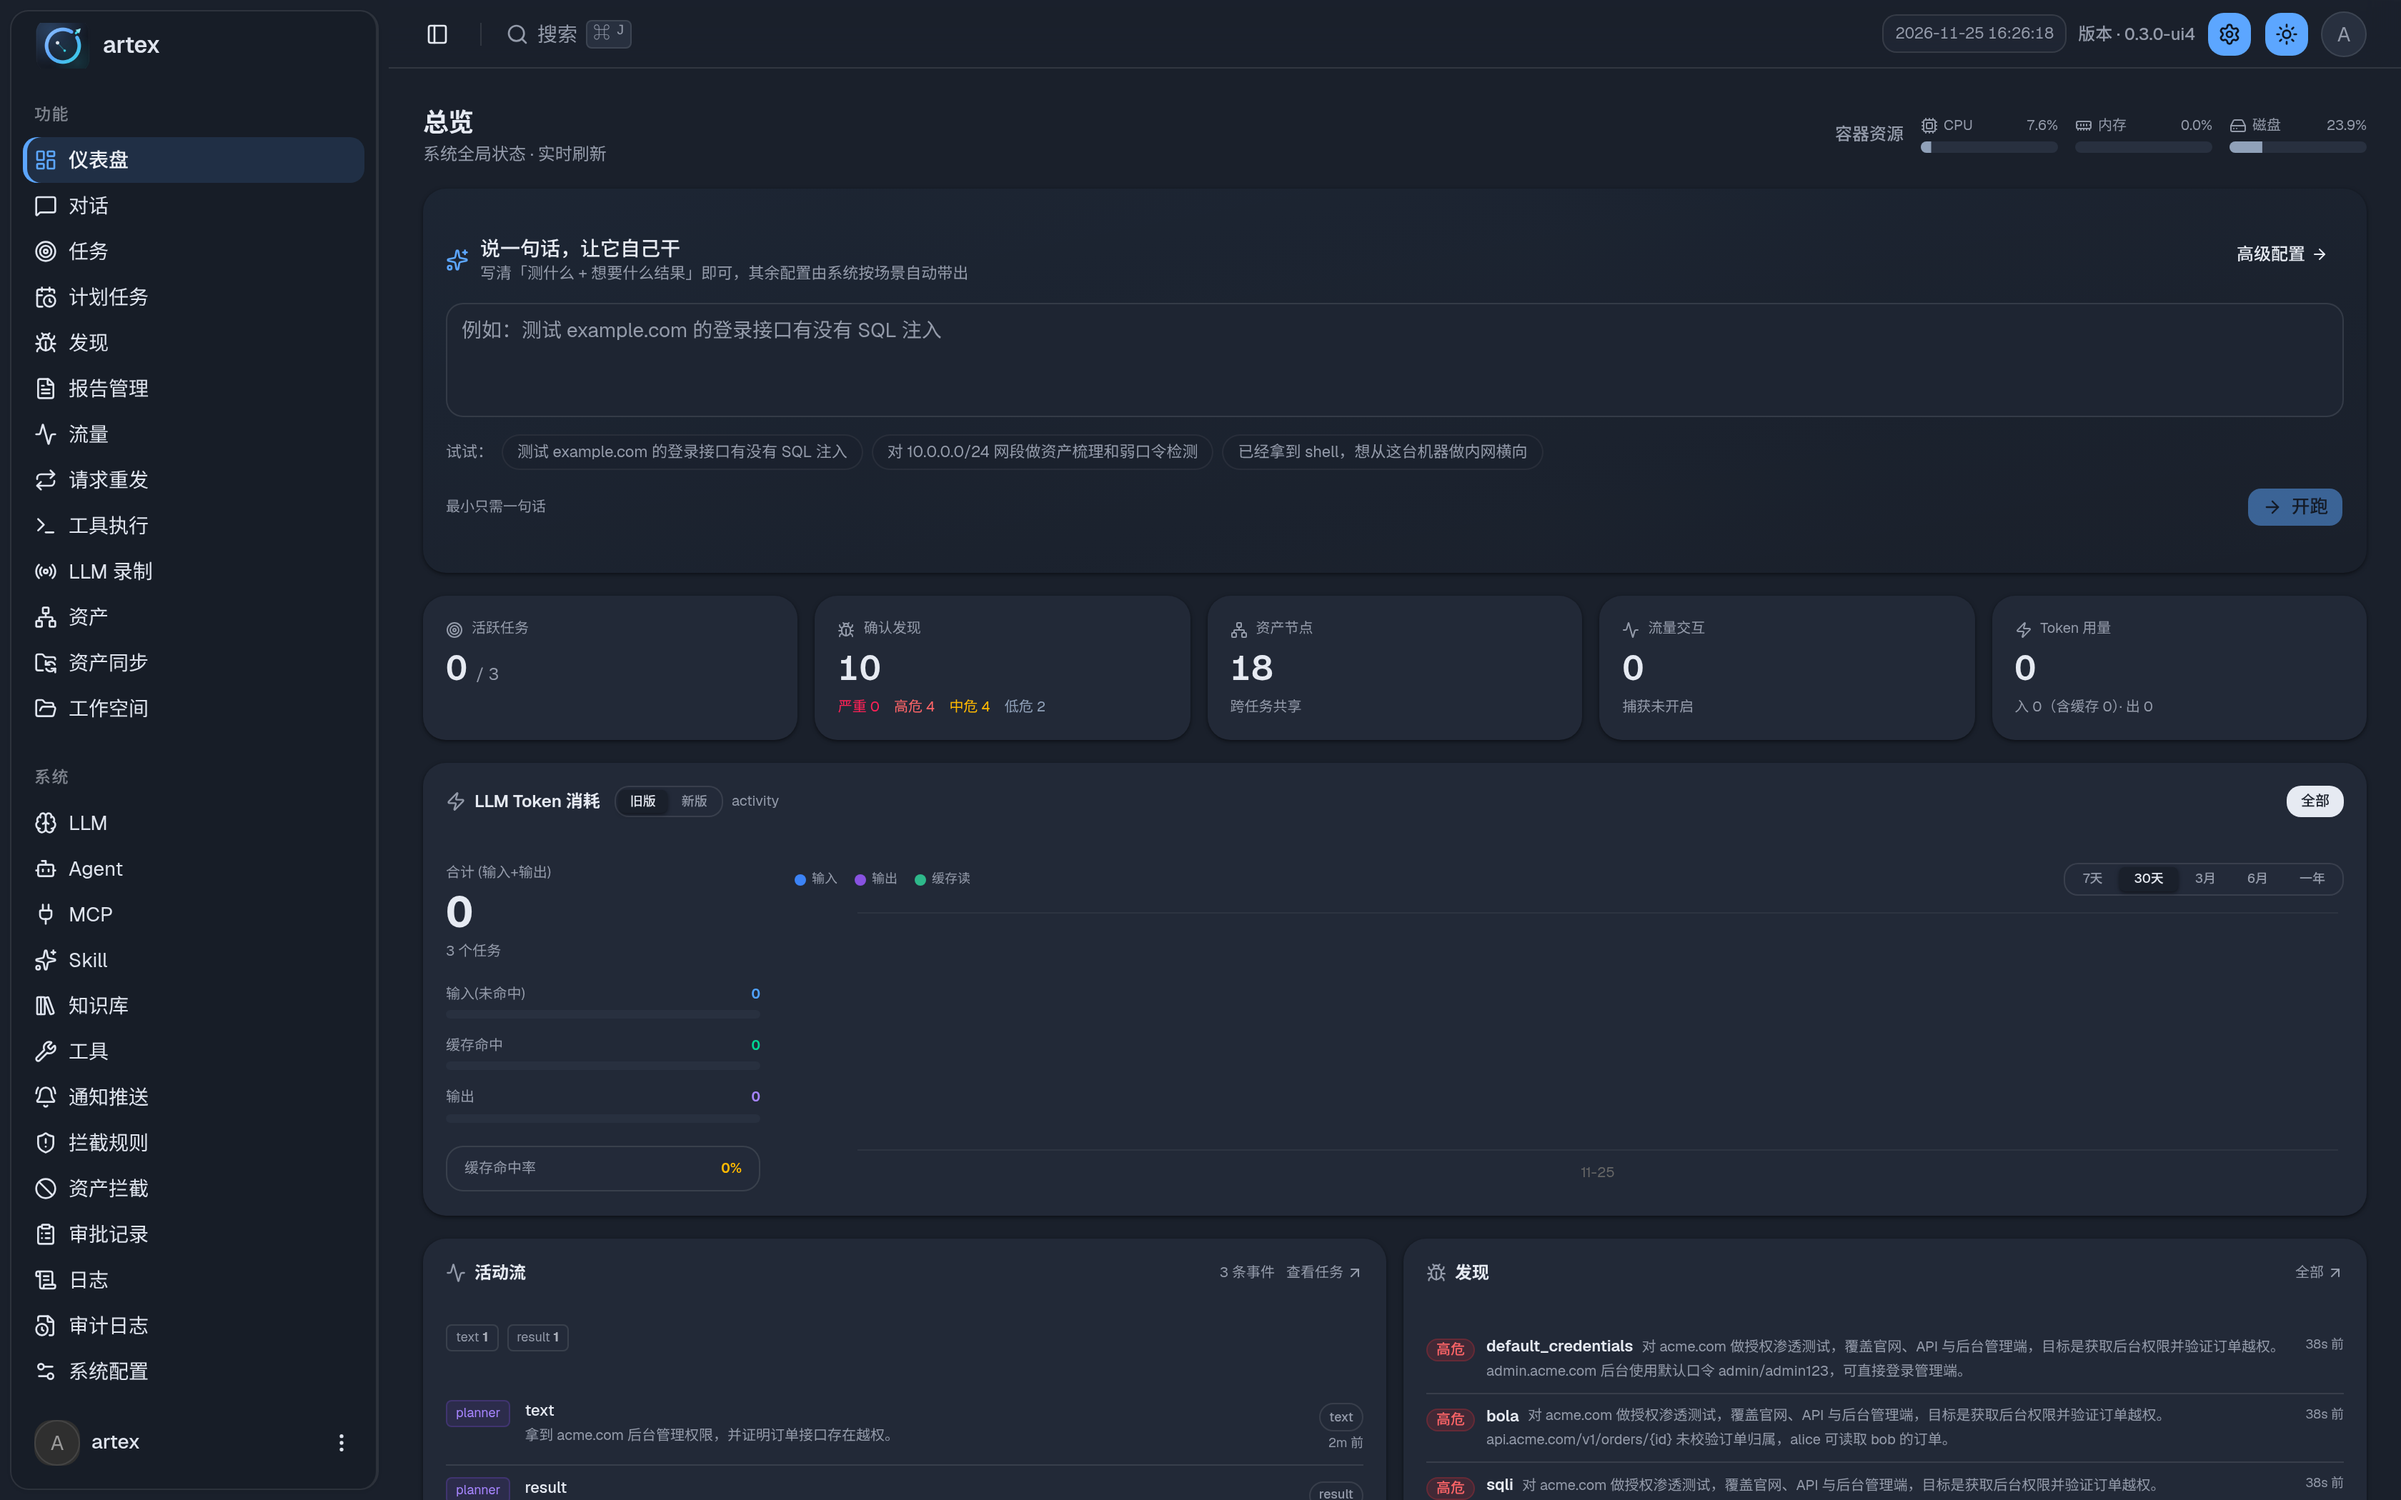
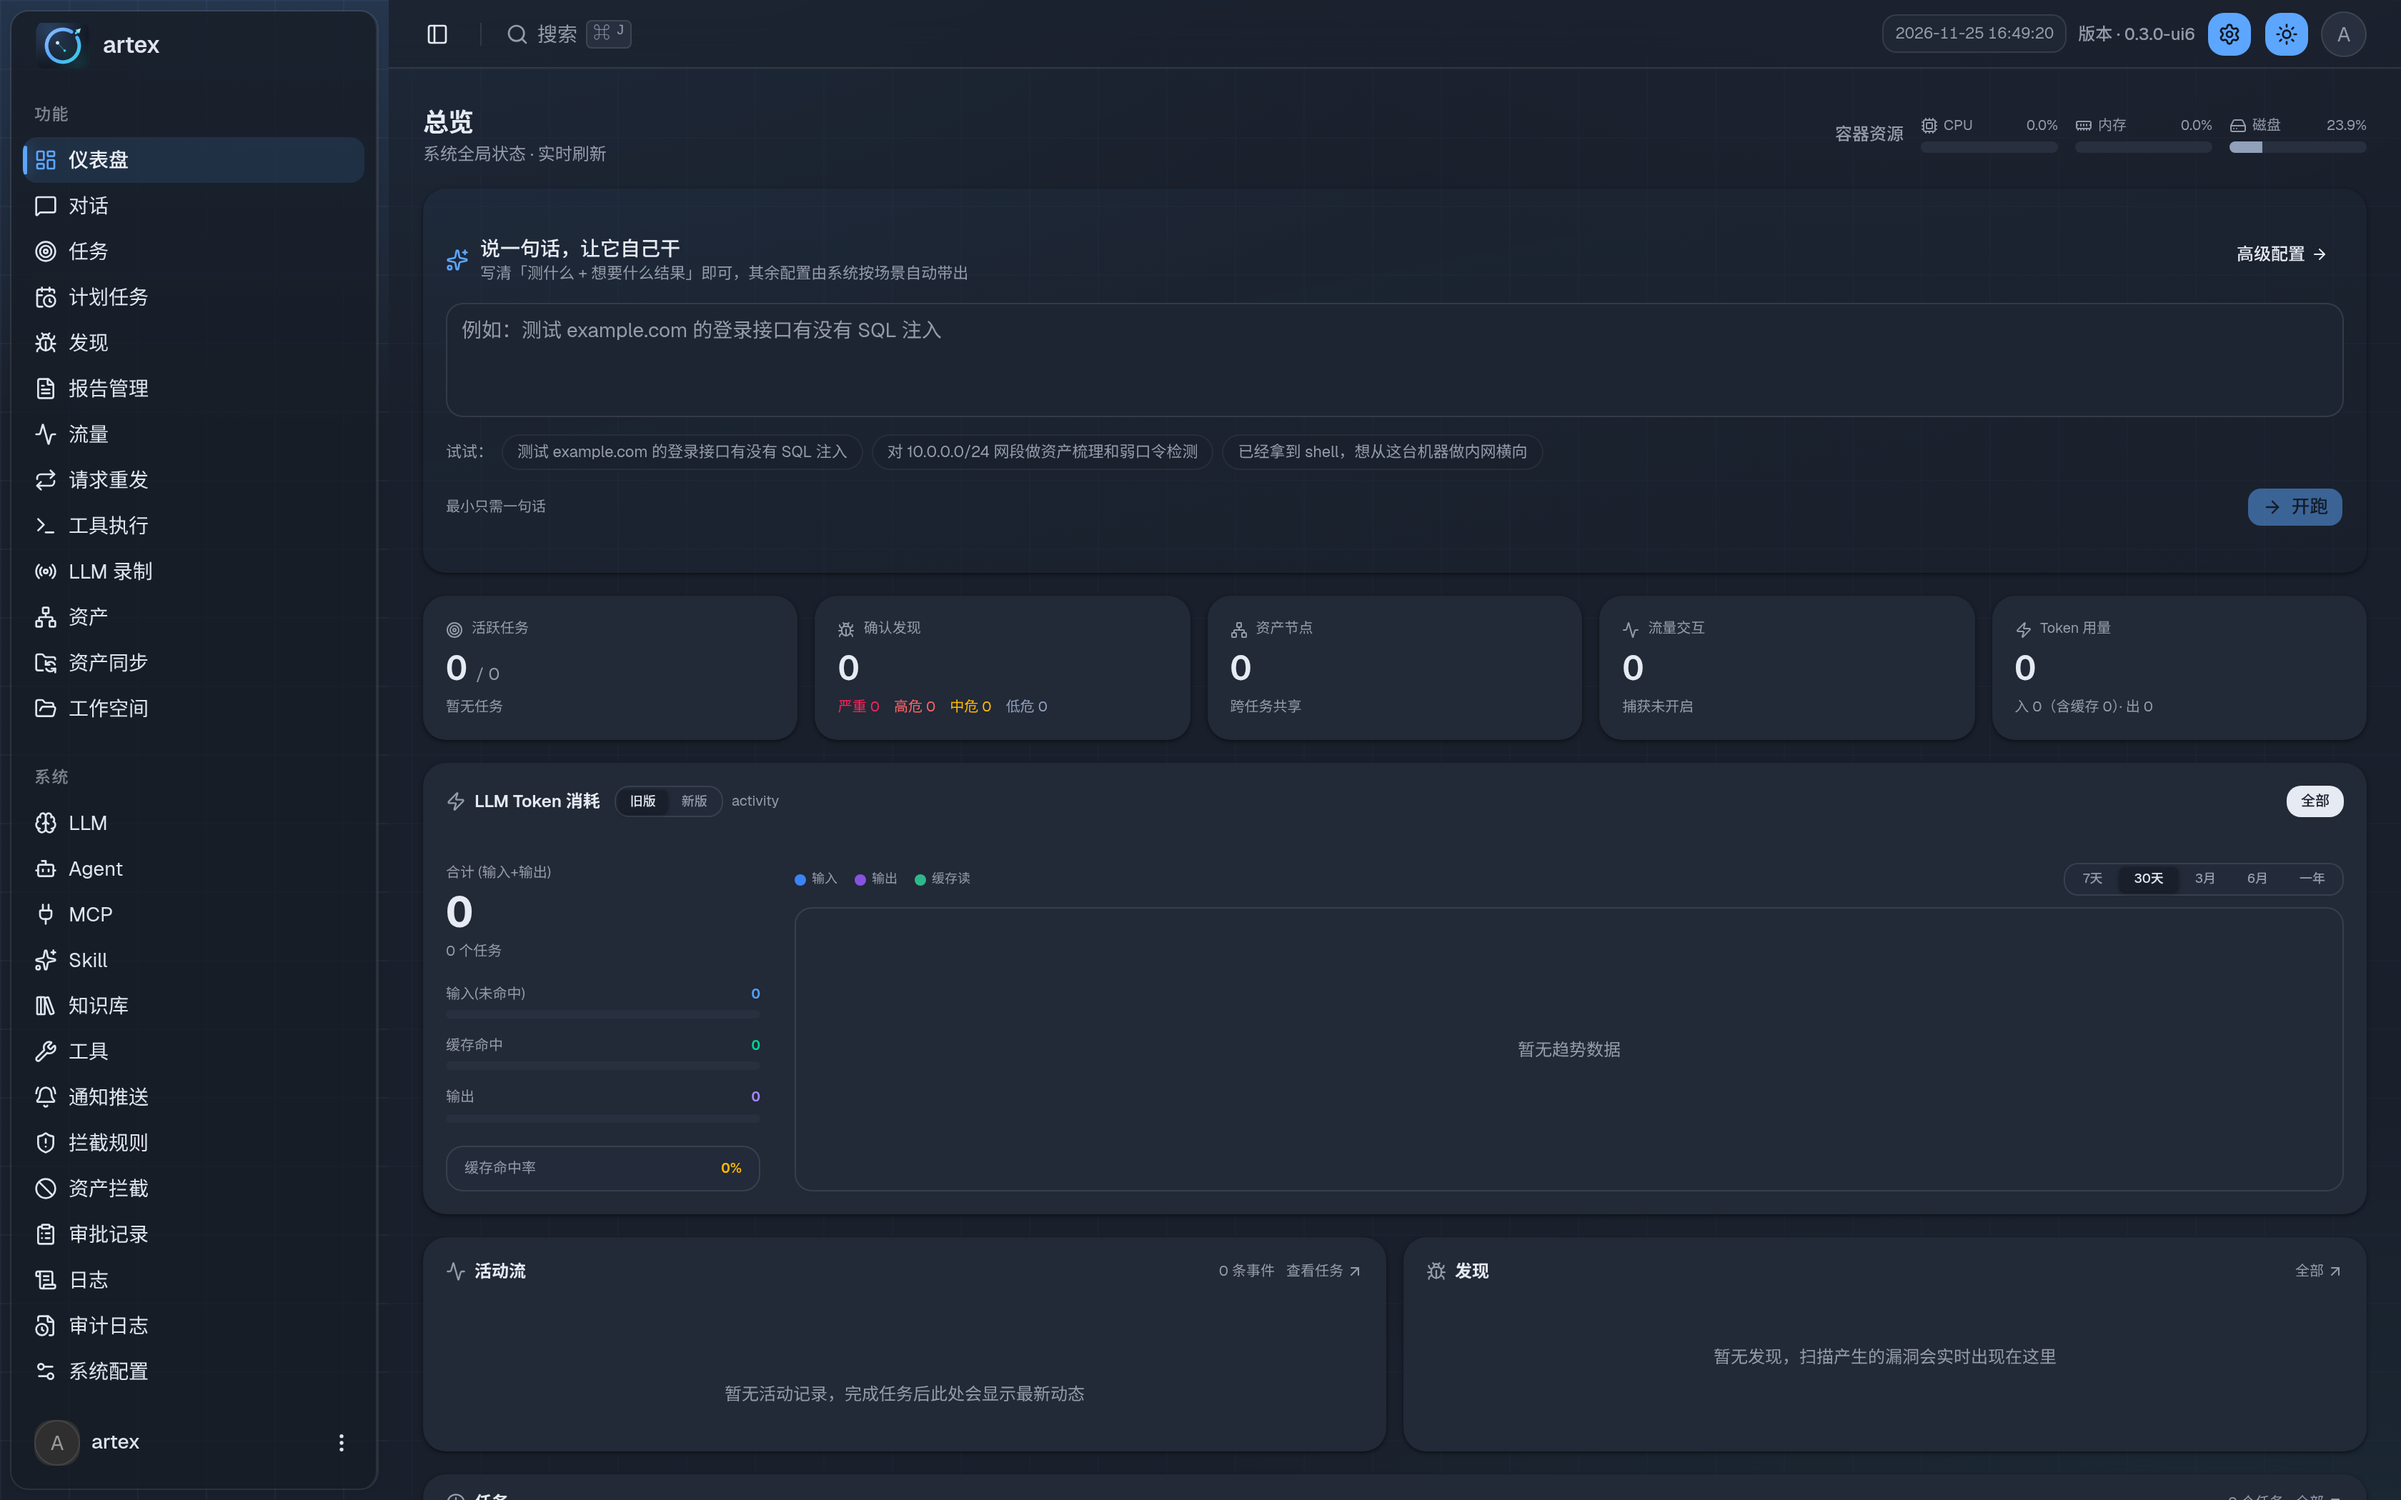
fix(ui): 背景加科幻网格纵深 + 侧栏选中态改直竖线
- 背板不再纯色：48px 淡蓝网格 + 蓝/青/紫三处光池，background-attachment:fixed
  使滚动时网格不动；内容区玻璃降到 62% 让网格透出（88% 时被整块盖住）
- 侧栏选中态：inset box-shadow 会被圆角切成弧线，改为绝对定位 3px 直竖条
- 更新 6 张暗色截图

diff --git a/web/src/styles/presets/abyss.css b/web/src/styles/presets/abyss.css
@@ -190,19 +190,55 @@ value: abyss
   filter: blur(2px);
 }
 
+/* ═══════════ 背景：深空网格 + 蓝调光斑 ═══════════
+   参考实现那句"深蓝黑底 + 蓝调网络从面板下透出来"就是这一层：
+   - 一层 40px 细网格（极低白透明度，只做"有纵深"的暗示，不是可见格子）
+   - 左上蓝光池 + 右下青光池（大面积、极低透明度，避免脏）
+   - background-attachment: fixed —— 滚动时网格不动，才有"面板浮在空间里"的感觉
+   画在 html 上、body 透明，这样半透明面板能真正透出它。 */
+.dark[data-theme-preset="abyss"] {
+  background-color: var(--background);
+  background-image:
+    radial-gradient(ellipse 90% 60% at 12% -10%, rgba(92, 166, 255, 0.22), transparent 64%),
+    radial-gradient(ellipse 70% 55% at 92% 108%, rgba(56, 211, 228, 0.14), transparent 64%),
+    radial-gradient(ellipse 55% 40% at 78% -6%, rgba(126, 120, 255, 0.09), transparent 60%),
+    linear-gradient(to right, rgba(120, 170, 255, 0.055) 1px, transparent 1px),
+    linear-gradient(to bottom, rgba(120, 170, 255, 0.055) 1px, transparent 1px);
+  background-size:
+    100% 100%,
+    100% 100%,
+    100% 100%,
+    48px 48px,
+    48px 48px;
+  background-attachment: fixed, fixed, fixed, fixed, fixed;
+}
+/* body 透明：让上面的网格透上来（否则被 body 的实色底整块盖住） */
+.dark[data-theme-preset="abyss"] body {
+  background-color: transparent;
+}
+
 /* ── 壳层：把 shadcn 的 sidebar/inset 版面拉进 Abyss 的材质语言 ─────────
    这里只改**表面**（背景/描边/圆角接缝），不动布局与交互；用属性选择器挂在
    data-theme-preset=abyss 上，所以切到其它主题时这些样式完全不生效。 */
+
+/* 侧栏：同色玻璃（半透 + 模糊），背景网格从下面透上来 */
 [data-theme-preset="abyss"] [data-slot="sidebar-inner"] {
-  background: var(--sidebar);
+  background: color-mix(in oklab, var(--sidebar) 82%, transparent);
   border-right: 1px solid var(--sidebar-border);
+  backdrop-filter: blur(12px) saturate(1.2);
+  -webkit-backdrop-filter: blur(12px) saturate(1.2);
 }
 
-/* 内容区：与侧栏同色相、亮一档 —— 深色里"更亮的容器"才读得出是浮起的面 */
+/* 内容区：比侧栏亮一档的同族玻璃 —— 深色里"更亮的容器"才读得出是浮起的面。
+   透明度留 88%：既有实体感，又能看到极淡的网格（参考实现的目标） */
 .dark[data-theme-preset="abyss"] [data-slot="sidebar-inset"] {
-  background: var(--background);
+  /* 62%：既保住"面板是实体"的观感，又能看见背后的网格与光池。
+     88% 时网格被整块盖住 —— 实测对比后取这个值。 */
+  background: color-mix(in oklab, var(--background) 62%, transparent);
   border-color: var(--border);
-  box-shadow: inset 0 1px 0 oklch(1 0 0 / 4%);
+  box-shadow: inset 0 1px 0 oklch(1 0 0 / 5%);
+  backdrop-filter: blur(14px) saturate(1.15);
+  -webkit-backdrop-filter: blur(14px) saturate(1.15);
 }
 
 /* 主内容顶栏：吸顶时不能透出滚动内容，但色相必须与容器一致 */
@@ -214,14 +250,29 @@ value: abyss
   border-bottom: 1px solid var(--border);
 }
 
-/* 侧栏选中项：品牌蓝的极低透明度底 + 左侧 2px 指示条，不用实色块铺面 */
-/* 选中项：沿用组件自身的圆角（不覆盖 radius），只用"品牌蓝低透明底 +
-   左侧 3px 指示条"表达状态 —— 实色高亮块会在深色侧栏里显得很重。 */
+/* 选中项：右侧是"拉直的竖线"，不是跟着圆角走的 inset shadow。
+   原来用 inset box-shadow 画指示条时，线的两端会被圆角切成弧形，看着像个小括号；
+   改成独立绝对定位的竖条后两端是齐平直角 —— 侧栏导航这类纵向列表要的就是这个观感。 */
+.dark[data-theme-preset="abyss"] [data-slot="sidebar-menu-button"] {
+  position: relative;
+}
 .dark[data-theme-preset="abyss"] [data-slot="sidebar-menu-button"][data-active="true"] {
-  background: color-mix(in oklab, var(--primary) 14%, transparent);
+  background: color-mix(in oklab, var(--primary) 12%, transparent);
   color: #eef1f7;
   font-weight: 500;
-  box-shadow: inset 3px 0 0 var(--primary);
+  box-shadow: none;
+}
+.dark[data-theme-preset="abyss"] [data-slot="sidebar-menu-button"][data-active="true"]::before {
+  content: "";
+  position: absolute;
+  left: 0;
+  top: 50%;
+  transform: translateY(-50%);
+  width: 3px;
+  height: 62%;
+  border-radius: 1px;
+  background: var(--primary);
+  box-shadow: 0 0 10px color-mix(in oklab, var(--primary) 55%, transparent);
 }
 .dark[data-theme-preset="abyss"] [data-slot="sidebar-menu-button"][data-active="true"] svg {
   color: var(--primary);

diff --git a/CHANGELOG.md b/CHANGELOG.md
@@ -13,6 +13,9 @@
   暗色里"浮起的面"要更亮而非更暗；层次靠半透描边而非色块；语义色保持同一柔和档。
   提供深蓝黑画布（`#1a202b`）、比画布亮一档的卡片、品牌蓝交互色，并补齐侧栏选中态、
   输入控件、吸顶表头、玻璃面板、深井面板等表面样式。切到其它预设时全部不生效。
+  背板不是纯色：一层 48px 淡蓝网格 + 三处大范围光池（蓝/青/紫），`background-attachment: fixed`
+  让滚动时网格不动，配合 62% 不透明度的内容区玻璃透出"面板浮在空间里"的纵深感。
+  侧栏选中态改用绝对定位的 3px 直竖条（不再用 inset shadow —— 那会被圆角切成弧线）。
 - **Logo / 图标重构**（`web/public/logo.svg`、`logo.png`）。深空底 + 断口圆环 +
   冲出缺口的箭头，表达"找到破口"；小尺寸（32/64px）下仍可辨识。
 - **暗色模式产品截图**（`screenshots/*-dark.png`）：仪表盘、任务、发现、资产、LLM、拦截规则。
